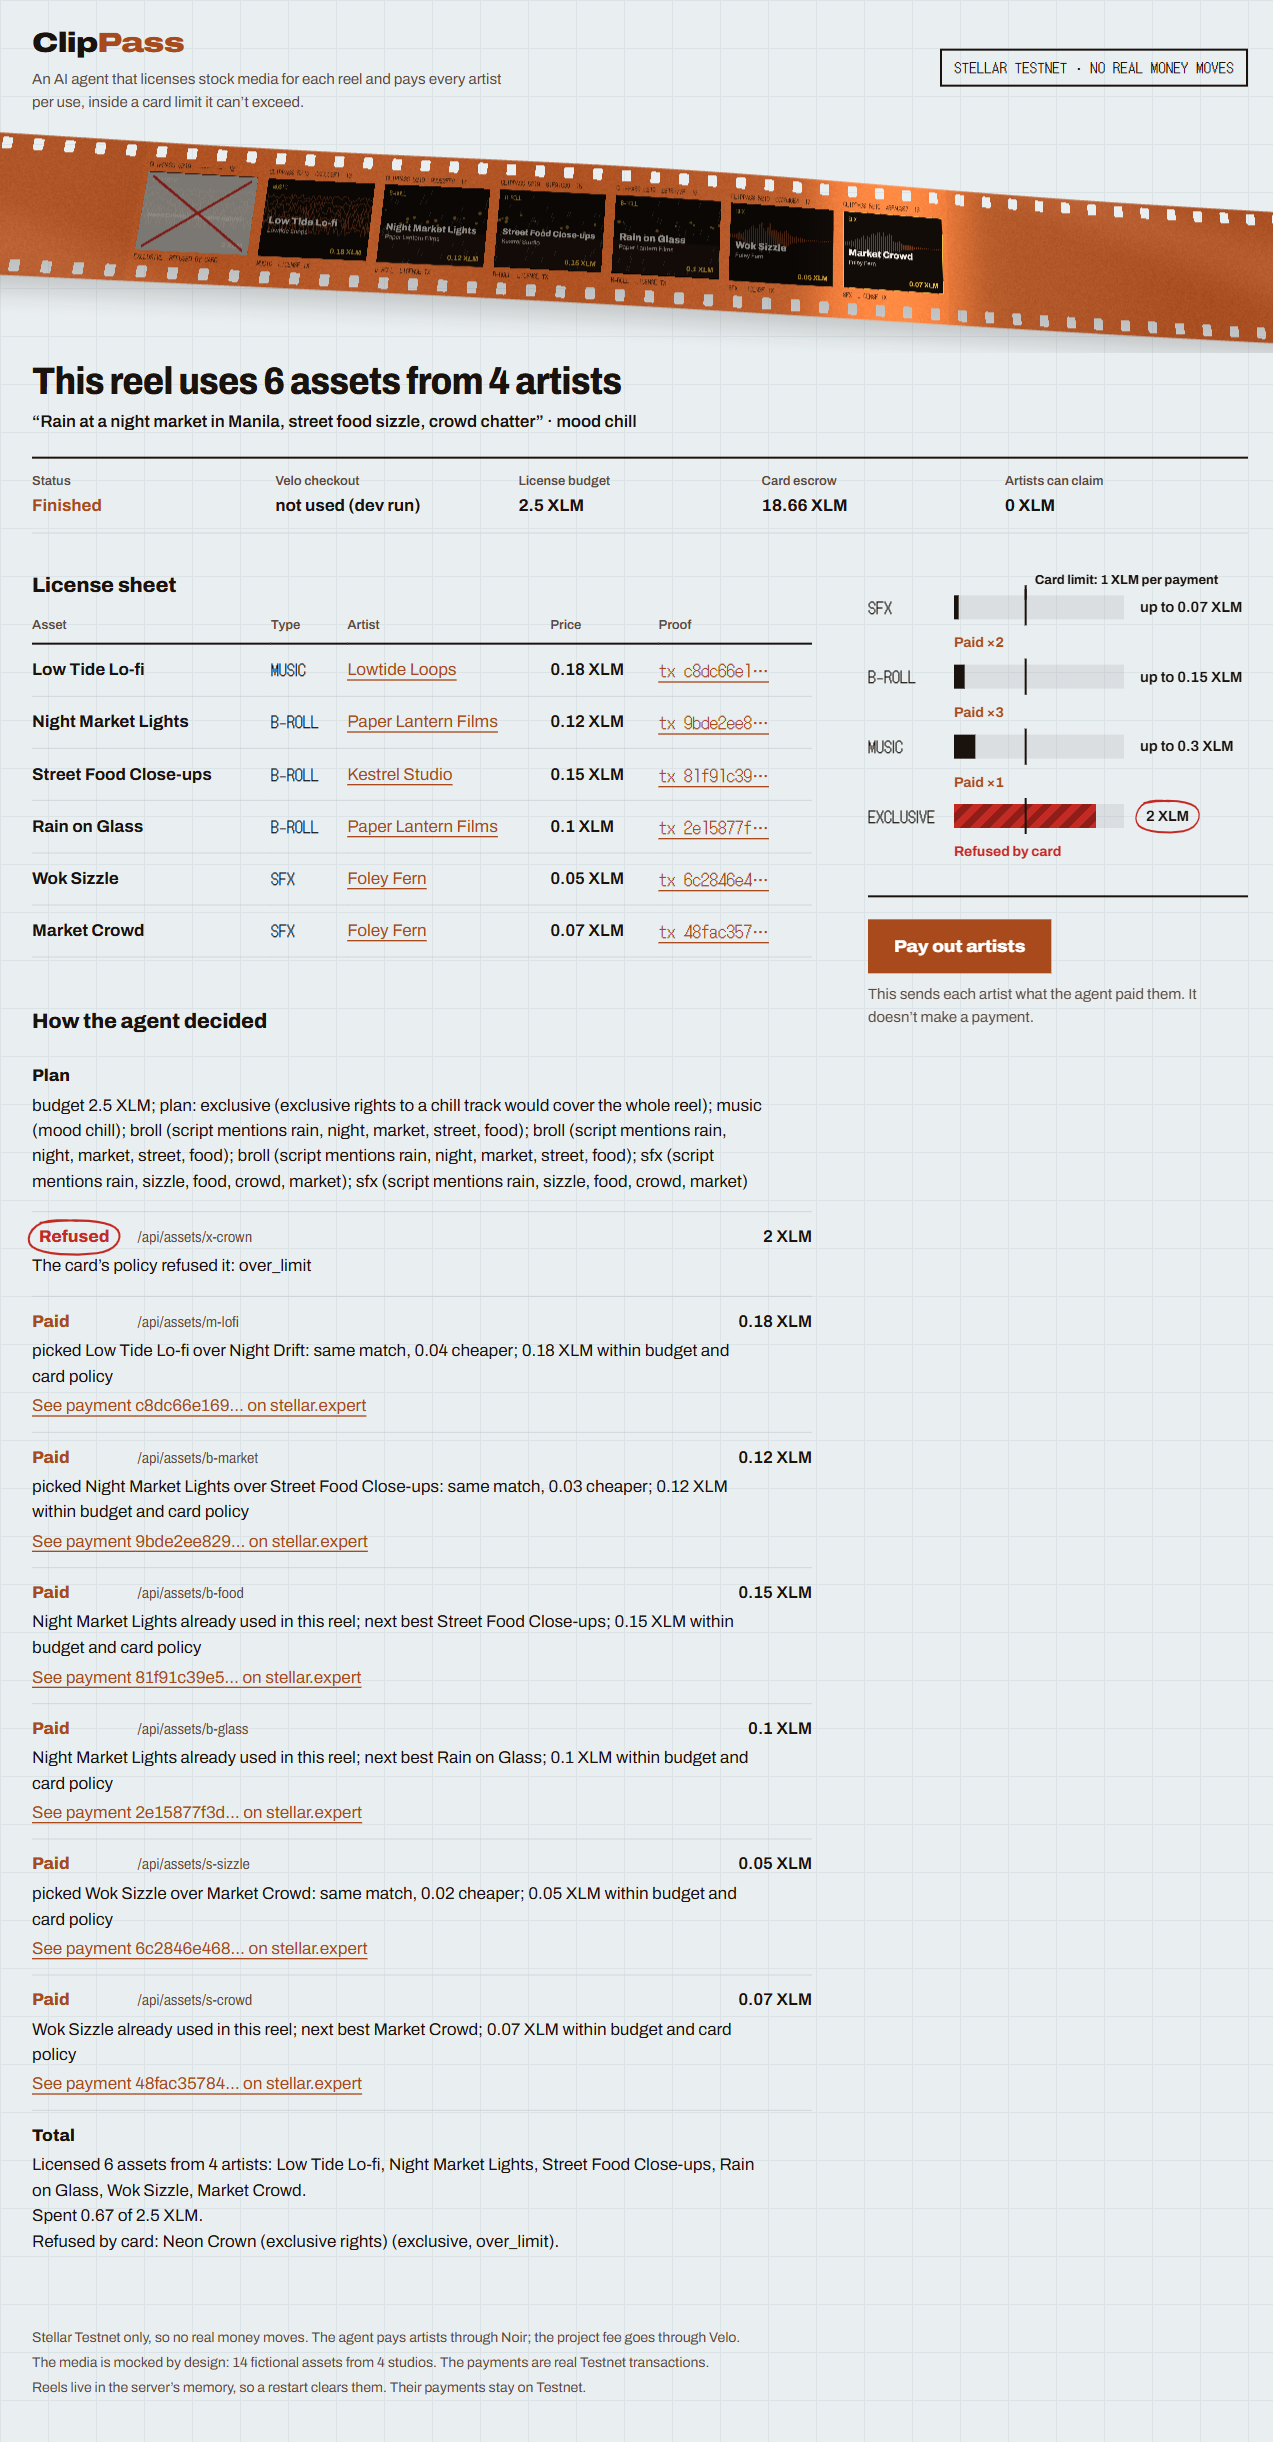
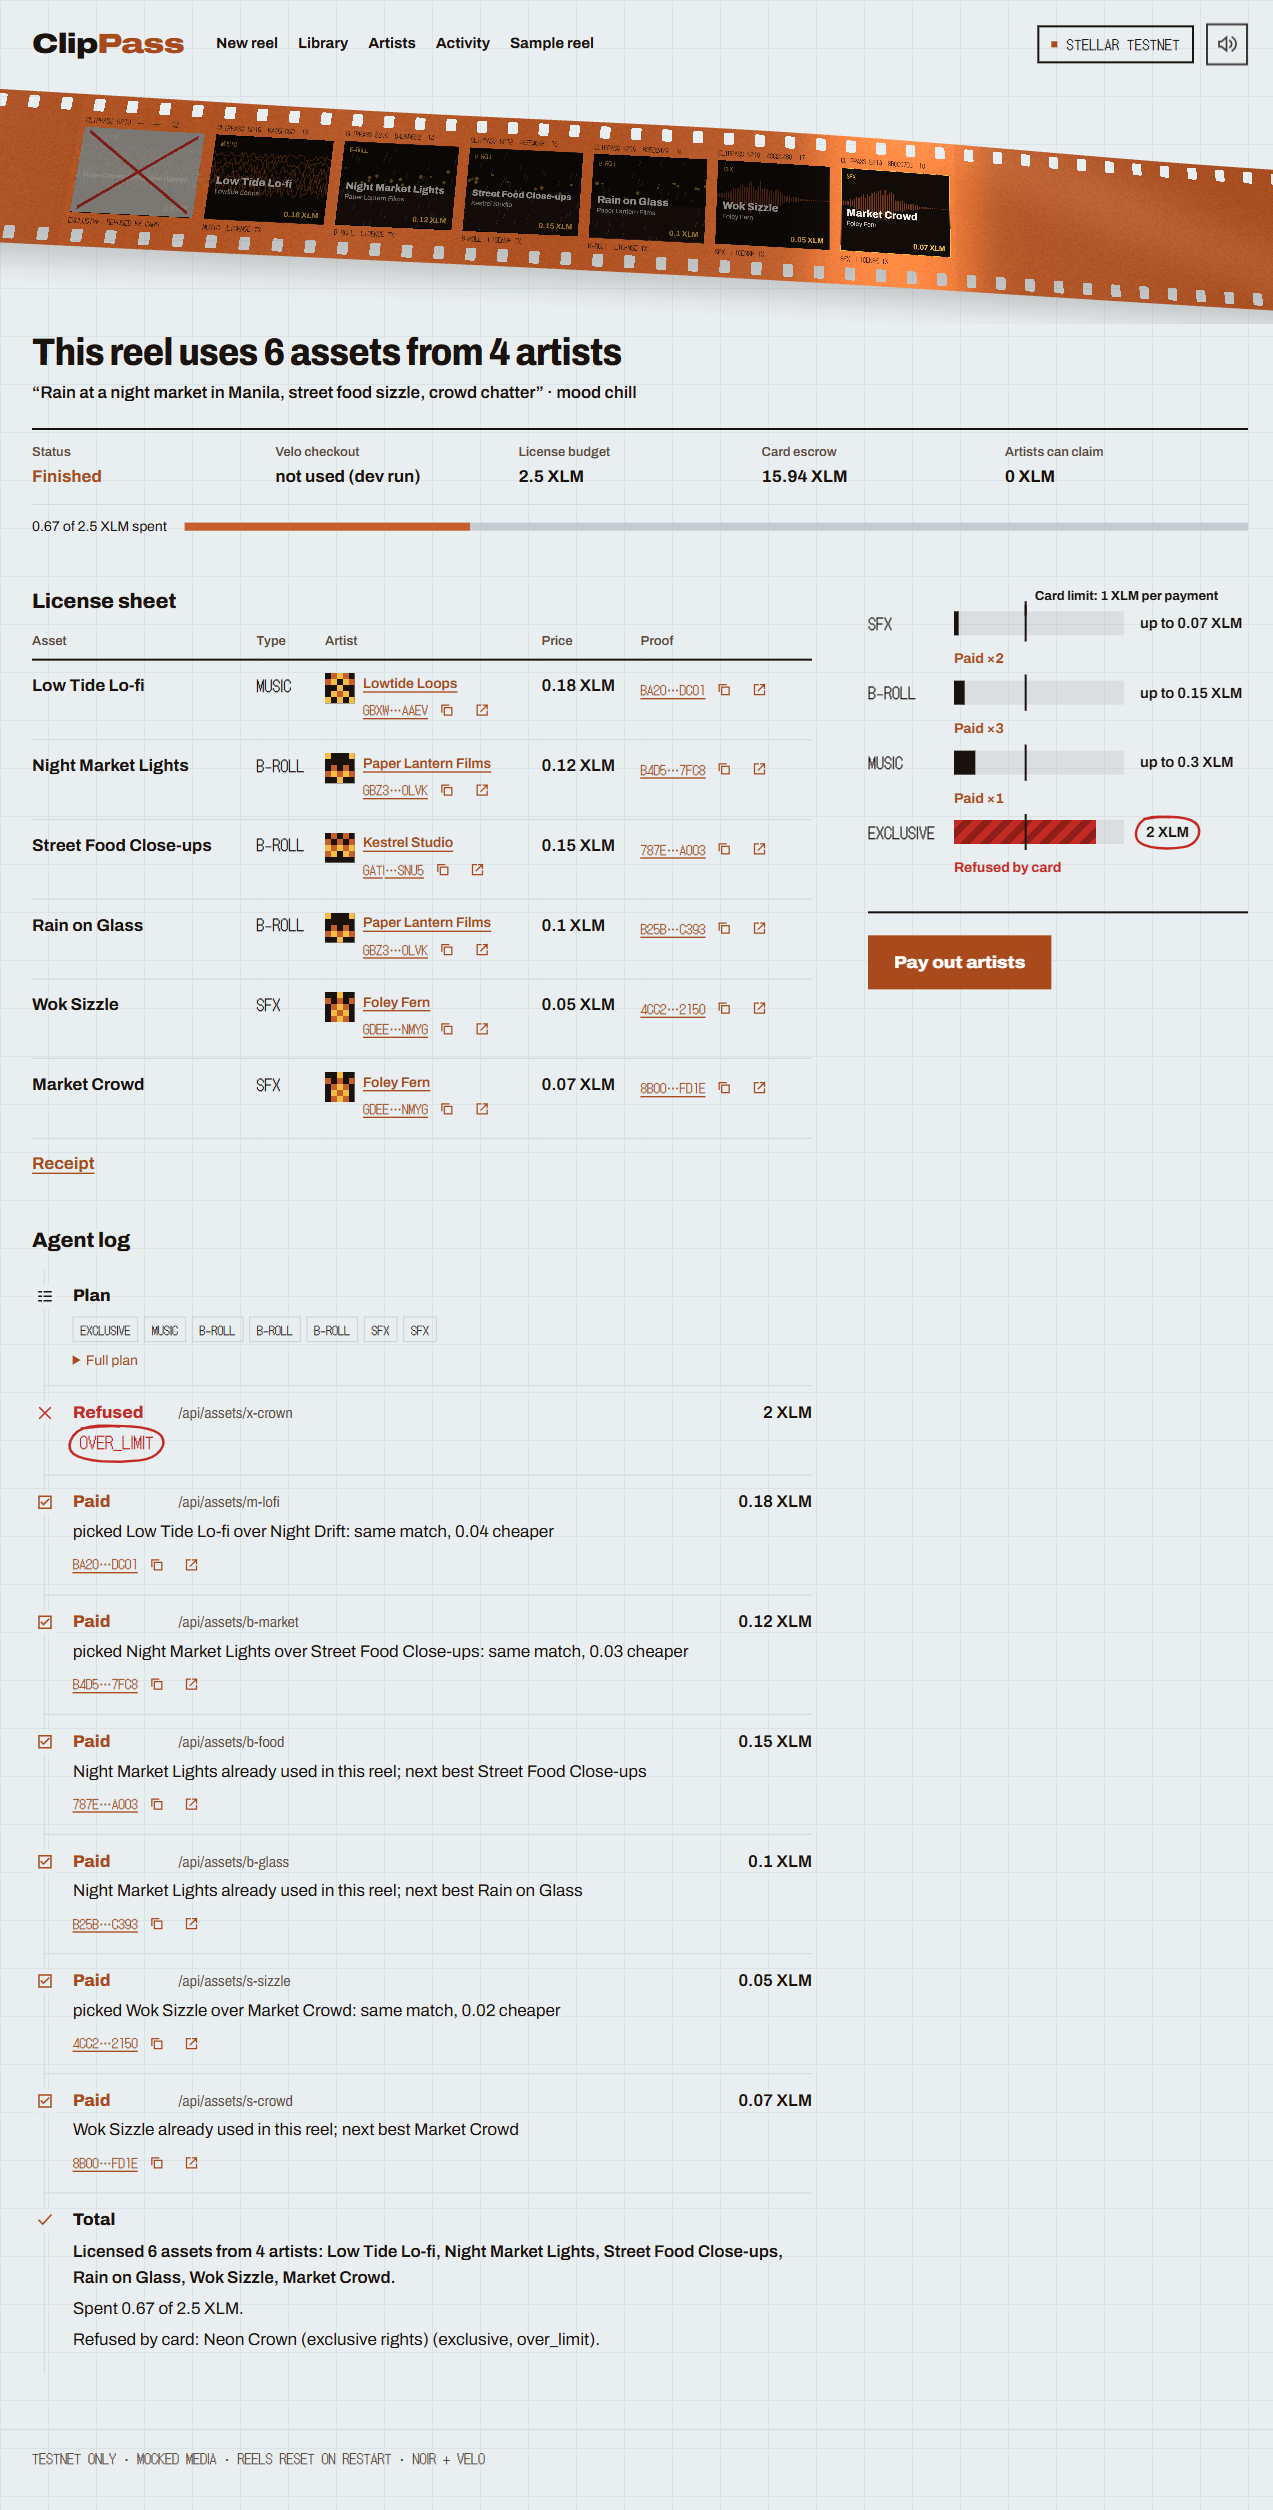
docs: finish submission materials and refresh screenshots
Add the human checklist and logo, describe the new pages, and update the
team board with the verification results.

diff --git a/docs/submission/HUMAN-TODO.md b/docs/submission/HUMAN-TODO.md
@@ -1,0 +1,26 @@
+# What only you and Daniel can do
+
+Submissions close **Sat Nov 7, 12:00 PM (UTC+8)**. Work in this order, and start early enough to fix a Velo problem.
+
+1. **Review and merge** `fix/handbook-compliance` into `main`. README line links only match after this.
+2. **Daniel makes the repo public** (GitHub, Settings, General, Danger Zone). Requirement 5. It needs admin access.
+3. **Get a Testnet Velo API key** at velo-build.dev. Sign in with a Stellar wallet, create a project, generate the key.
+4. **Deploy** using [docs/deploy.md](../deploy.md). Render for the API, Vercel for the site. Requirement 6.
+   - Use your own `.env` values. Never commit them.
+   - Never set `DEV_ROUTES` on Render.
+   - Use an always-on plan for judging, or reels vanish when the server sleeps.
+5. **Test one real checkout. This is the biggest open risk.** It has never run with a real key.
+   - Pay the fee and confirm the reel starts from the webhook.
+   - If Velo rejects the `native` asset, stop and bring me the exact error.
+6. **Check the live site on a phone** and open `/sample` in a private window.
+7. **Listen to the sound.** Nobody on the AI team can hear it. Turn it on and run a reel.
+8. **Record the 2-minute video** using [demo-script.md](demo-script.md). Keep the file as your backup for the live pitch.
+9. **Share the pitch deck** from its Share menu, or export a PDF. Add your team name and live URL on the last slide.
+10. **Fill the README top block:** Live website, Demo video, Pitch deck, Team as `Name (Discord handle)`.
+11. **Confirm everyone registered** on the Google Form by the Nov 4 deadline.
+12. **Submit** at https://forms.gle/hQ73PnsR1w2YwAq57 with the repo link, video, deck, [write-up](write-up.md), live URL, team and a Stellar Expert link.
+
+## Worth doing
+
+- Ask in #noir-sdk-and-extension whether `apps/server/src/rpcShim.ts` is fine under "only through the SDK". It only restores one field on RPC responses, and the README discloses it.
+- Top up escrow before judging by running `npm run setup` once with your production keys. It adds 20 XLM only when escrow is under 10 XLM.

diff --git a/docs/submission/demo-script.md b/docs/submission/demo-script.md
@@ -4,6 +4,7 @@
 - Deploy the site and use the live URL, not localhost.
 - Start with a real Velo checkout if it's working. If not, record locally with the test reel button and say so.
 - Check the card has at least 3 XLM in escrow.
+- Judges with no Testnet wallet can use the Sample reel page.
 - A reel takes about a minute on Testnet. Speed that section up in editing and say so on screen.
 - Keep sound on. The sound design carries part of this.
 
@@ -15,7 +16,7 @@
 | 0:42 to 1:05 | Job page, frames developing, first paid rows | "Each asset answers 402 with its price and the artist's own address. The agent picks the cheapest match, checks the card, and pays that artist directly." |
 | 1:05 to 1:22 | The refused frame and pencil ring | "Here's the part I care about. The agent tried a 2 XLM exclusive track. The card said no. That limit lives in the Noir contract, so the agent can't get around it." |
 | 1:22 to 1:40 | Finished license sheet, click one transaction to Stellar Expert | "Six assets from four artists. Every license is a real Testnet transaction, and here's the proof." |
-| 1:40 to 1:52 | Click Pay out artists, payout links appear | "Artists collect with their own keys." |
+| 1:40 to 1:52 | Open the receipt, then click Pay out artists | "The creator keeps a receipt for every license, and artists collect with their own keys." |
 | 1:52 to 2:00 | Reel on screen | "ClipPass. The agent spends on its own, inside limits it can't exceed." |
 
 ## Live pitch backup (5 minutes plus 3 of Q&A)

diff --git a/AGENTS.md b/AGENTS.md
@@ -52,9 +52,9 @@ Tested on Nov 6. Each tool answered a one-line prompt from an empty folder.
 | F2-A | Server: JSON errors, balance cache, low escrow, license body, catalog, activity | Sol 6.1 | Merged | `apps/server`, `packages/agent`, `packages/shared` |
 | F2-B | Web core: error states, routes, sample reel, receipt | Claude subagent | Merged | `App.tsx`, `JobPage.tsx`, `api.ts`, new view files |
 | F2-C | Library, Artists, Activity pages | Sol 6.1 | Merged | `apps/web/src/pages/*`, `apps/web/src/pages.css` |
-| S1 | Write-up, demo script, pitch deck, logo | Claude | Queued | `docs/submission/**` |
-| Q1 | End-to-end browser test | Terra 6.1 | Queued | None; reports only |
-| R1 | Independent review of the full diff | Claude subagent | Queued | None; reports only |
+| S1 | Write-up, demo script, pitch deck, logo | Claude | Done; deck is a private artifact | `docs/submission/**` |
+| Q1 | End-to-end browser test | Claude (Sol and Terra sandboxes cannot open browsers) | Passed | None; reports only |
+| R1 | Independent review of the full diff | Claude subagent | Findings fixed | None; reports only |
 
 ## Decision and handoff log
 

diff --git a/PRODUCT.md b/PRODUCT.md
@@ -24,6 +24,7 @@ The agent spends on its own, inside limits it cannot exceed. Each 402 quote name
 - Lanes: Music, B-roll, SFX, Exclusive. Price ranges: SFX 0.03–0.07, B-roll 0.08–0.15, Music 0.15–0.30, Exclusive 2 XLM (above the 1 XLM card limit).
 - Agent decisions shown to the visitor: plan, skip (over budget, quote above listed price, lane used up), refused (by the card policy, e.g. `over_limit`), paid (with the pick reason, e.g. "picked Wok Sizzle over Market Crowd: same match, 0.02 cheaper"), failed, done (summary).
 - Every payment, payout and account links to stellar.expert (Testnet).
+- Pages: start, Library (the 14 assets), Artists (accounts and pending earnings), Activity (recent payments and refusals), Sample reel (a recorded real reel that spends nothing, for visitors with no Testnet wallet), job page and license receipt.
 - Local demos run through a dev route that starts a reel without Velo; `npm run demo` prints the same flow in a terminal.
 
 ## Capabilities and Constraints

diff --git a/README.md b/README.md
@@ -132,7 +132,7 @@ Card setup:
 ## Repo structure
 
 ```
-apps/web/        Vite + React site: describe a reel, watch the agent, license sheet, pay out artists
+apps/web/        Vite + React site: start a reel, Library, Artists, Activity, Sample reel, license sheet, receipts, artist payouts
 apps/server/     Express: stock library 402 API, Velo checkout + webhook, Noir watch, agent runner, artist payouts
 packages/agent/  plan, pick, decide, paidFetch, runAgent (all Noir payment calls), optional Ollama planner
 packages/shared/ asset catalog, artists, moods, contract IDs + assertion, XLM SAC, types, env reader
